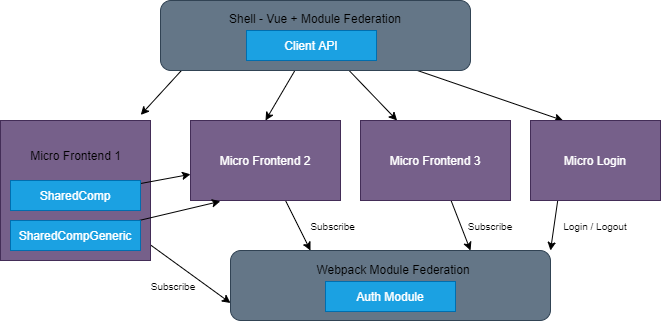
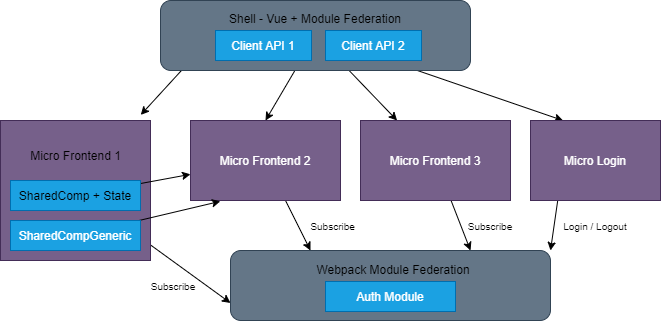
c

Changed region(s): [[0.3026, 0.0935, 0.6354, 0.1869], [0.0303, 0.5919, 0.2118, 0.6231]]

diff --git a/src/components/MfeTwo-ChildComponent.vue b/src/components/MfeTwo-ChildComponent.vue
@@ -1,6 +1,6 @@
 <template>
   <div class="shared-comp-2">
-    Datos de PetStore, usando Client API común de la Shell
+    Datos de PetStore, usando Client API 2 de la Shell
     <el-table
     :header-cell-style="{ background: 'lightgray', color: 'black' }"
     :data="pets"

diff --git a/src/store/store.js b/src/store/store.js
@@ -1,5 +1,5 @@
 import { createStore } from 'vuex'
-import { Configuration, PetApiFactory } from "Shell/clientApi";
+import { Configuration, PetApiFactory } from "Shell/clientApiTwo";
 
 const store = createStore({
   state() {
